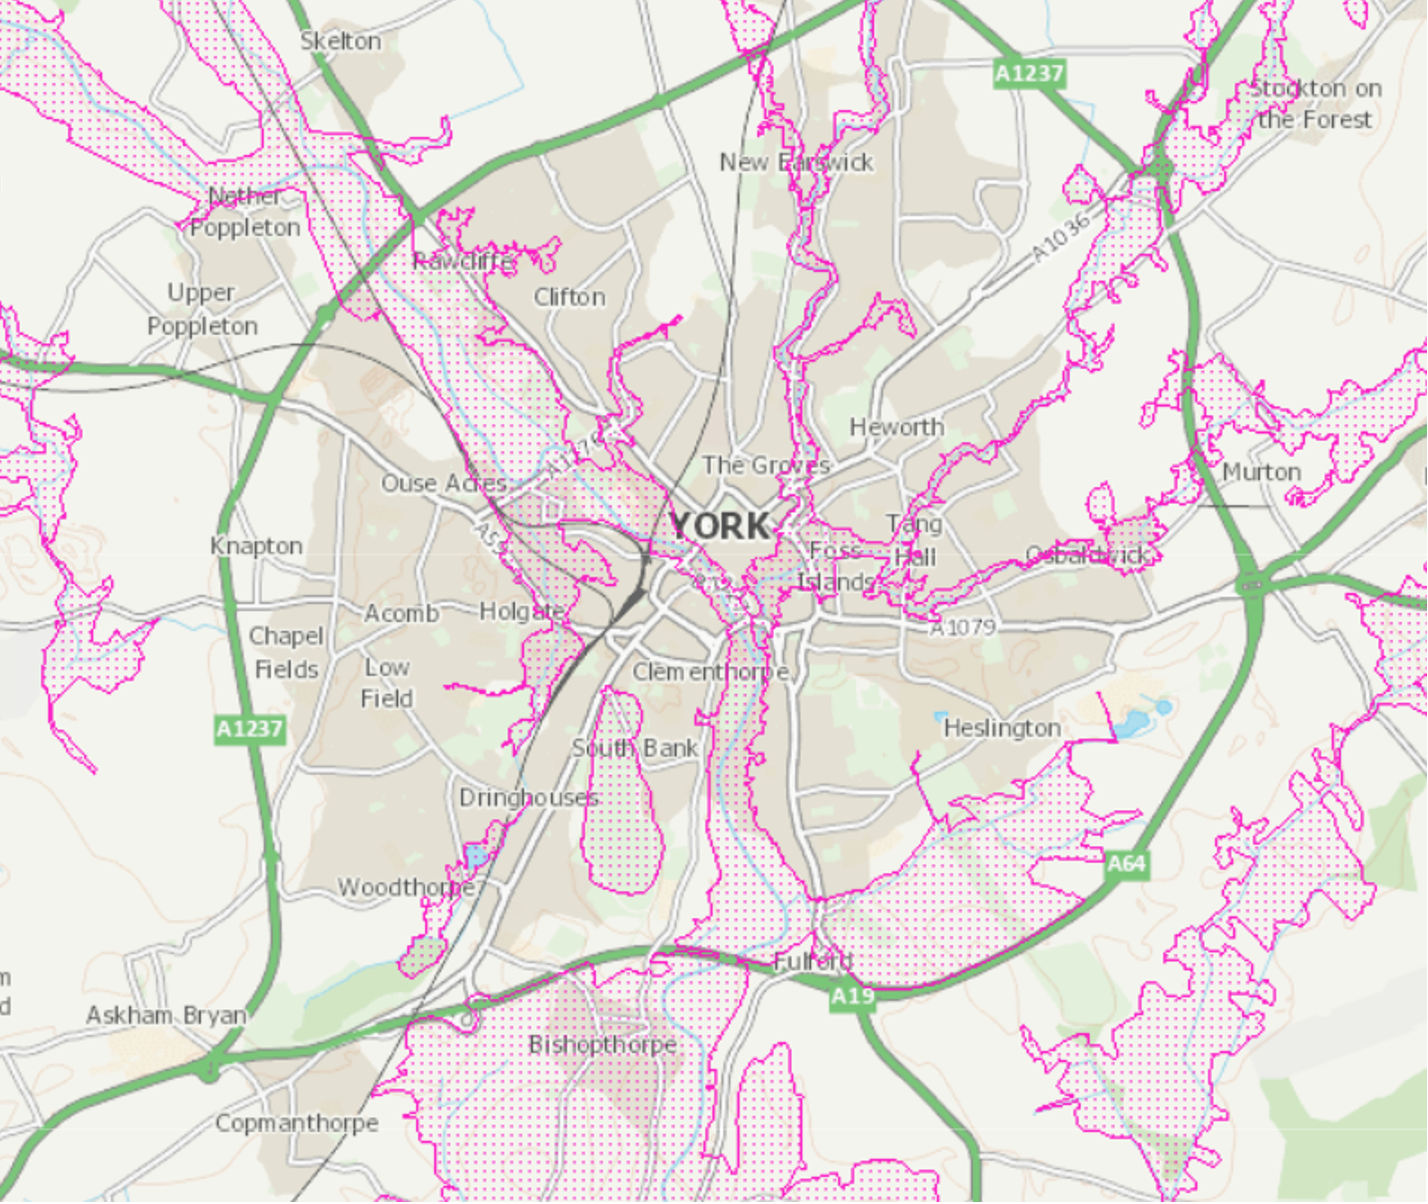
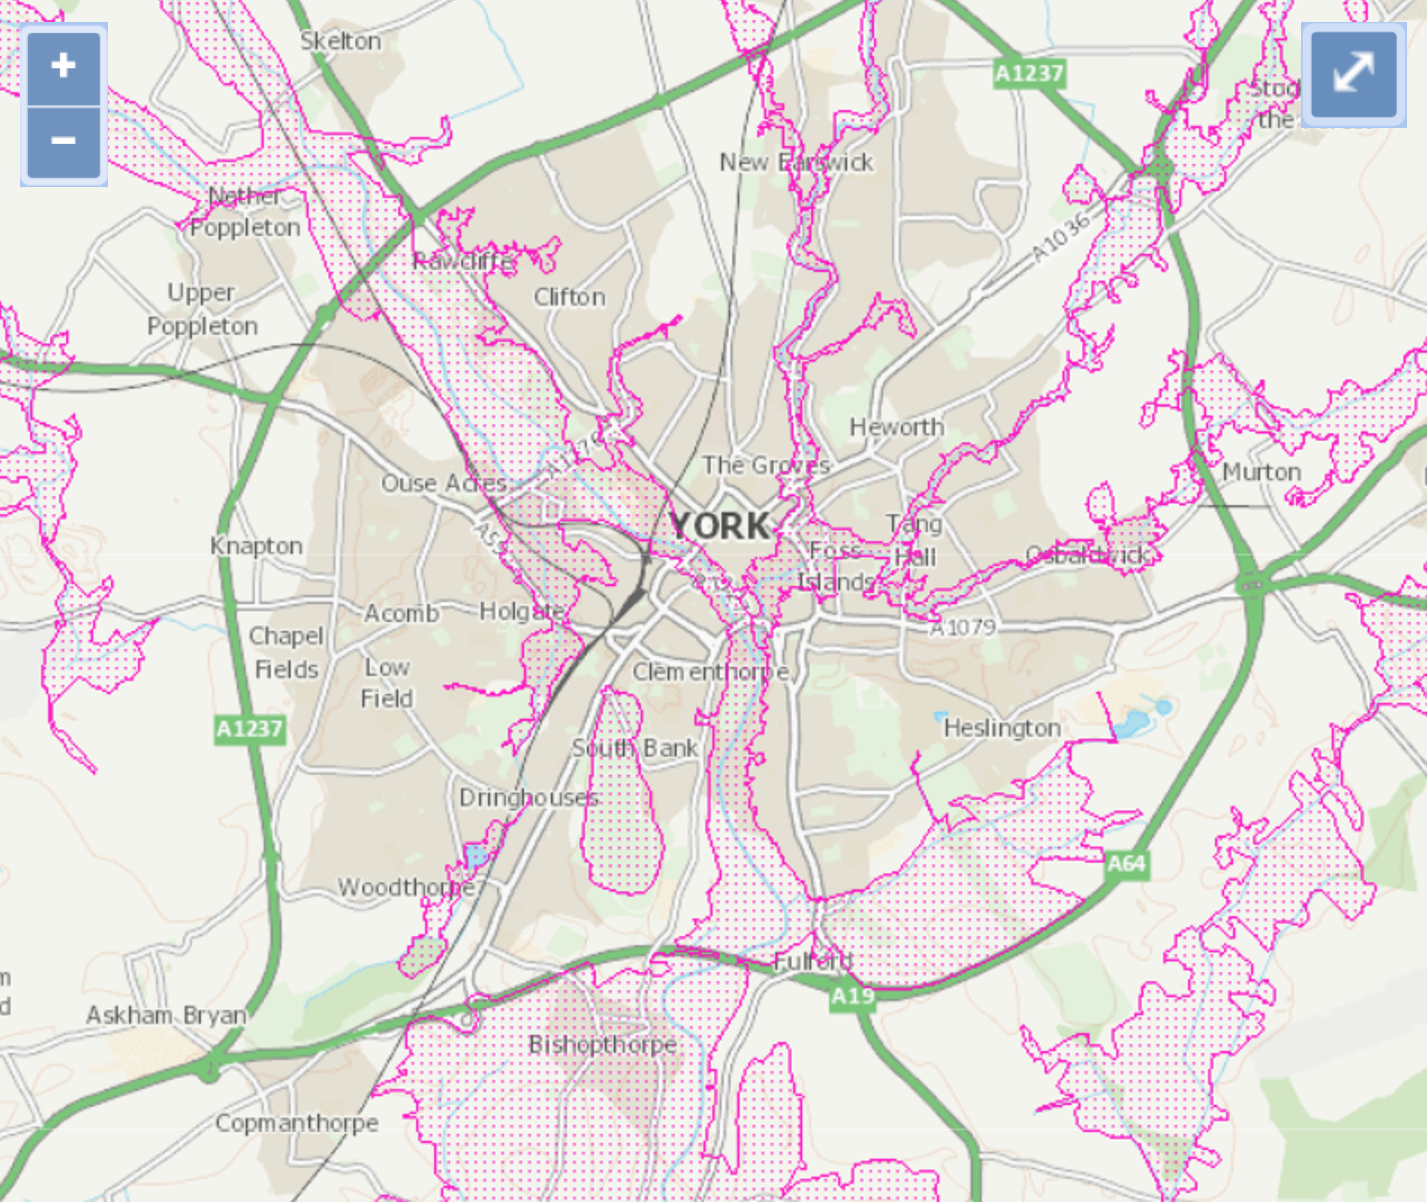
updated the images of search results to include zoom arrows and expand button

Changed region(s): [[0.0, 0.0, 0.0924, 0.1537], [0.8936, 0.0, 0.986, 0.1229]]

diff --git a/app/views/v3/find-location/review2.html b/app/views/v3/find-location/review2.html
@@ -34,13 +34,13 @@ Review your selections
             <table class="govuk-table">
               <tbody class="govuk-table__body">
                 <tr class="govuk-table__row">
-                  <td class="govuk-table__cell">Tidal River Avon from Sea Mills to Conham
+                  <td class="govuk-table__cell govuk-!-width-two-thirds">Tidal River Avon from Sea Mills to Conham
                   </td>
                   <td class="govuk-table__cell"><a href="target-area-example">View</a></td>
                   <td class="govuk-table__cell"><a href="#">Remove</a></td>
                 </tr>
                 <tr class="govuk-table__row">
-                  <td class="govuk-table__cell">Bristol Floating Harbour and the River Avon at Bristol, other properties set back from the river 
+                  <td class="govuk-table__cell govuk-!-width-two-thirds">Bristol Floating Harbour and the River Avon at Bristol, other properties set back from the river 
                   </td>
                   <td class="govuk-table__cell"><a href="target-area-example">View</a></td>
                   <td class="govuk-table__cell"><a href="#">Remove</a></td>
@@ -56,13 +56,13 @@ Review your selections
             <table class="govuk-table">
               <tbody class="govuk-table__body">
                 <tr class="govuk-table__row">
-                  <td class="govuk-table__cell">Lower Bristol Avon Area
+                  <td class="govuk-table__cell govuk-!-width-two-thirds">Lower Bristol Avon Area
                   </td>
                   <td class="govuk-table__cell"><a href="target-area-example">View</a></td>
                   <td class="govuk-table__cell"><a href="#">Remove</a></td>
                  </tr>
                 <tr class="govuk-table__row">                  
-                  <td class="govuk-table__cell">Severn Estuary at Oldbury-on-Severn, Northwick and Avonmouth
+                  <td class="govuk-table__cell govuk-!-width-two-thirds">Severn Estuary at Oldbury-on-Severn, Northwick and Avonmouth
                   </td>
                   <td class="govuk-table__cell"><a href="target-area-example">View</a></td>
                   <td class="govuk-table__cell"><a href="#">Remove</a></td>

diff --git a/app/views/v3/find-location/review3.html b/app/views/v3/find-location/review3.html
@@ -34,13 +34,13 @@ Review your selections
             <table class="govuk-table">
               <tbody class="govuk-table__body">
                 <tr class="govuk-table__row">
-                  <td class="govuk-table__cell">Tidal River Avon from Sea Mills to Conham
+                  <td class="govuk-table__cell govuk-!-width-two-thirds">Tidal River Avon from Sea Mills to Conham
                   </td>
                   <td class="govuk-table__cell"><a href="target-area-example">View</a></td>
                   <td class="govuk-table__cell"><a href="#">Remove</a></td>
                 </tr>
                 <tr class="govuk-table__row">
-                  <td class="govuk-table__cell">Bristol Floating Harbour and the River Avon at Bristol, other properties set back from the river 
+                  <td class="govuk-table__cell govuk-!-width-two-thirds">Bristol Floating Harbour and the River Avon at Bristol, other properties set back from the river 
                   </td>
                   <td class="govuk-table__cell"><a href="target-area-example">View</a></td>
                   <td class="govuk-table__cell"><a href="#">Remove</a></td>
@@ -56,13 +56,13 @@ Review your selections
             <table class="govuk-table">
               <tbody class="govuk-table__body">
                 <tr class="govuk-table__row">
-                  <td class="govuk-table__cell">Lower Bristol Avon Area
+                  <td class="govuk-table__cell govuk-!-width-two-thirds">Lower Bristol Avon Area
                   </td>
                   <td class="govuk-table__cell"><a href="target-area-example">View</a></td>
                   <td class="govuk-table__cell"><a href="#">Remove</a></td>
                  </tr>
                 <tr class="govuk-table__row">                  
-                  <td class="govuk-table__cell">Brisol Frome Catchment
+                  <td class="govuk-table__cell govuk-!-width-two-thirds">Brisol Frome Catchment
                   </td>
                   <td class="govuk-table__cell"><a href="target-area-example">View</a></td>
                   <td class="govuk-table__cell"><a href="#">Remove</a></td>

diff --git a/app/views/v3/find-location/review0.html b/app/views/v3/find-location/review0.html
@@ -34,13 +34,13 @@ Review your selections
             <table class="govuk-table">
               <tbody class="govuk-table__body">
                 <tr class="govuk-table__row">
-                  <td class="govuk-table__cell">River Foss upstream of Yearsley Baths to Strensall - riverside properties only
+                  <td class="govuk-table__cell govuk-!-width-two-thirds">River Foss upstream of Yearsley Baths to Strensall - riverside properties only
                   </td>
                   <td class="govuk-table__cell"><a href="target-area-example">View</a></td>
                   <td class="govuk-table__cell"><a href="#">Remove</a></td>
                 </tr>
                 <tr class="govuk-table__row">
-                  <td class="govuk-table__cell">River Foss upstream of Yearsley Baths
+                  <td class="govuk-table__cell govuk-!-width-two-thirds">River Foss upstream of Yearsley Baths
                   </td>
                   <td class="govuk-table__cell"><a href="target-area-example">View</a></td>
                   <td class="govuk-table__cell"><a href="#">Remove</a></td>
@@ -56,13 +56,13 @@ Review your selections
             <table class="govuk-table">
               <tbody class="govuk-table__body">
                 <tr class="govuk-table__row">
-                  <td class="govuk-table__cell">Upper River Ouse
+                  <td class="govuk-table__cell govuk-!-width-two-thirds">Upper River Ouse
                   </td>
                   <td class="govuk-table__cell"><a href="target-area-example">View</a></td>
                   <td class="govuk-table__cell"><a href="#">Remove</a></td>
                  </tr>
                 <tr class="govuk-table__row">                  
-                  <td class="govuk-table__cell">River Foss Catchment
+                  <td class="govuk-table__cell govuk-!-width-two-thirds">River Foss Catchment
                   </td>
                   <td class="govuk-table__cell"><a href="target-area-example">View</a></td>
                   <td class="govuk-table__cell"><a href="#">Remove</a></td>

diff --git a/app/views/v3/find-location/review1.html b/app/views/v3/find-location/review1.html
@@ -34,13 +34,13 @@ Review your selections
             <table class="govuk-table">
               <tbody class="govuk-table__body">
                 <tr class="govuk-table__row">
-                  <td class="govuk-table__cell">River Foss upstream of Yearsley Baths to Strensall - riverside properties only
+                  <td class="govuk-table__cell govuk-!-width-two-thirds">River Foss upstream of Yearsley Baths to Strensall - riverside properties only
                   </td>
                   <td class="govuk-table__cell"><a href="target-area-example">View</a></td>
                   <td class="govuk-table__cell"><a href="#">Remove</a></td>
                 </tr>
                 <tr class="govuk-table__row">
-                  <td class="govuk-table__cell">River Foss upstream of Yearsley Baths
+                  <td class="govuk-table__cell govuk-!-width-two-thirds">River Foss upstream of Yearsley Baths
                   </td>
                   <td class="govuk-table__cell"><a href="target-area-example">View</a></td>
                   <td class="govuk-table__cell"><a href="#">Remove</a></td>
@@ -56,13 +56,13 @@ Review your selections
             <table class="govuk-table">
               <tbody class="govuk-table__body">
                 <tr class="govuk-table__row">
-                  <td class="govuk-table__cell">Lower River Derwent
+                  <td class="govuk-table__cell govuk-!-width-two-thirds">Lower River Derwent
                   </td>
                   <td class="govuk-table__cell"><a href="target-area-example">View</a></td>
                   <td class="govuk-table__cell"><a href="#">Remove</a></td>
                  </tr>
                 <tr class="govuk-table__row">                  
-                  <td class="govuk-table__cell">Upper River Ouse
+                  <td class="govuk-table__cell govuk-!-width-two-thirds">Upper River Ouse
                   </td>
                   <td class="govuk-table__cell"><a href="target-area-example">View</a></td>
                   <td class="govuk-table__cell"><a href="#">Remove</a></td>
